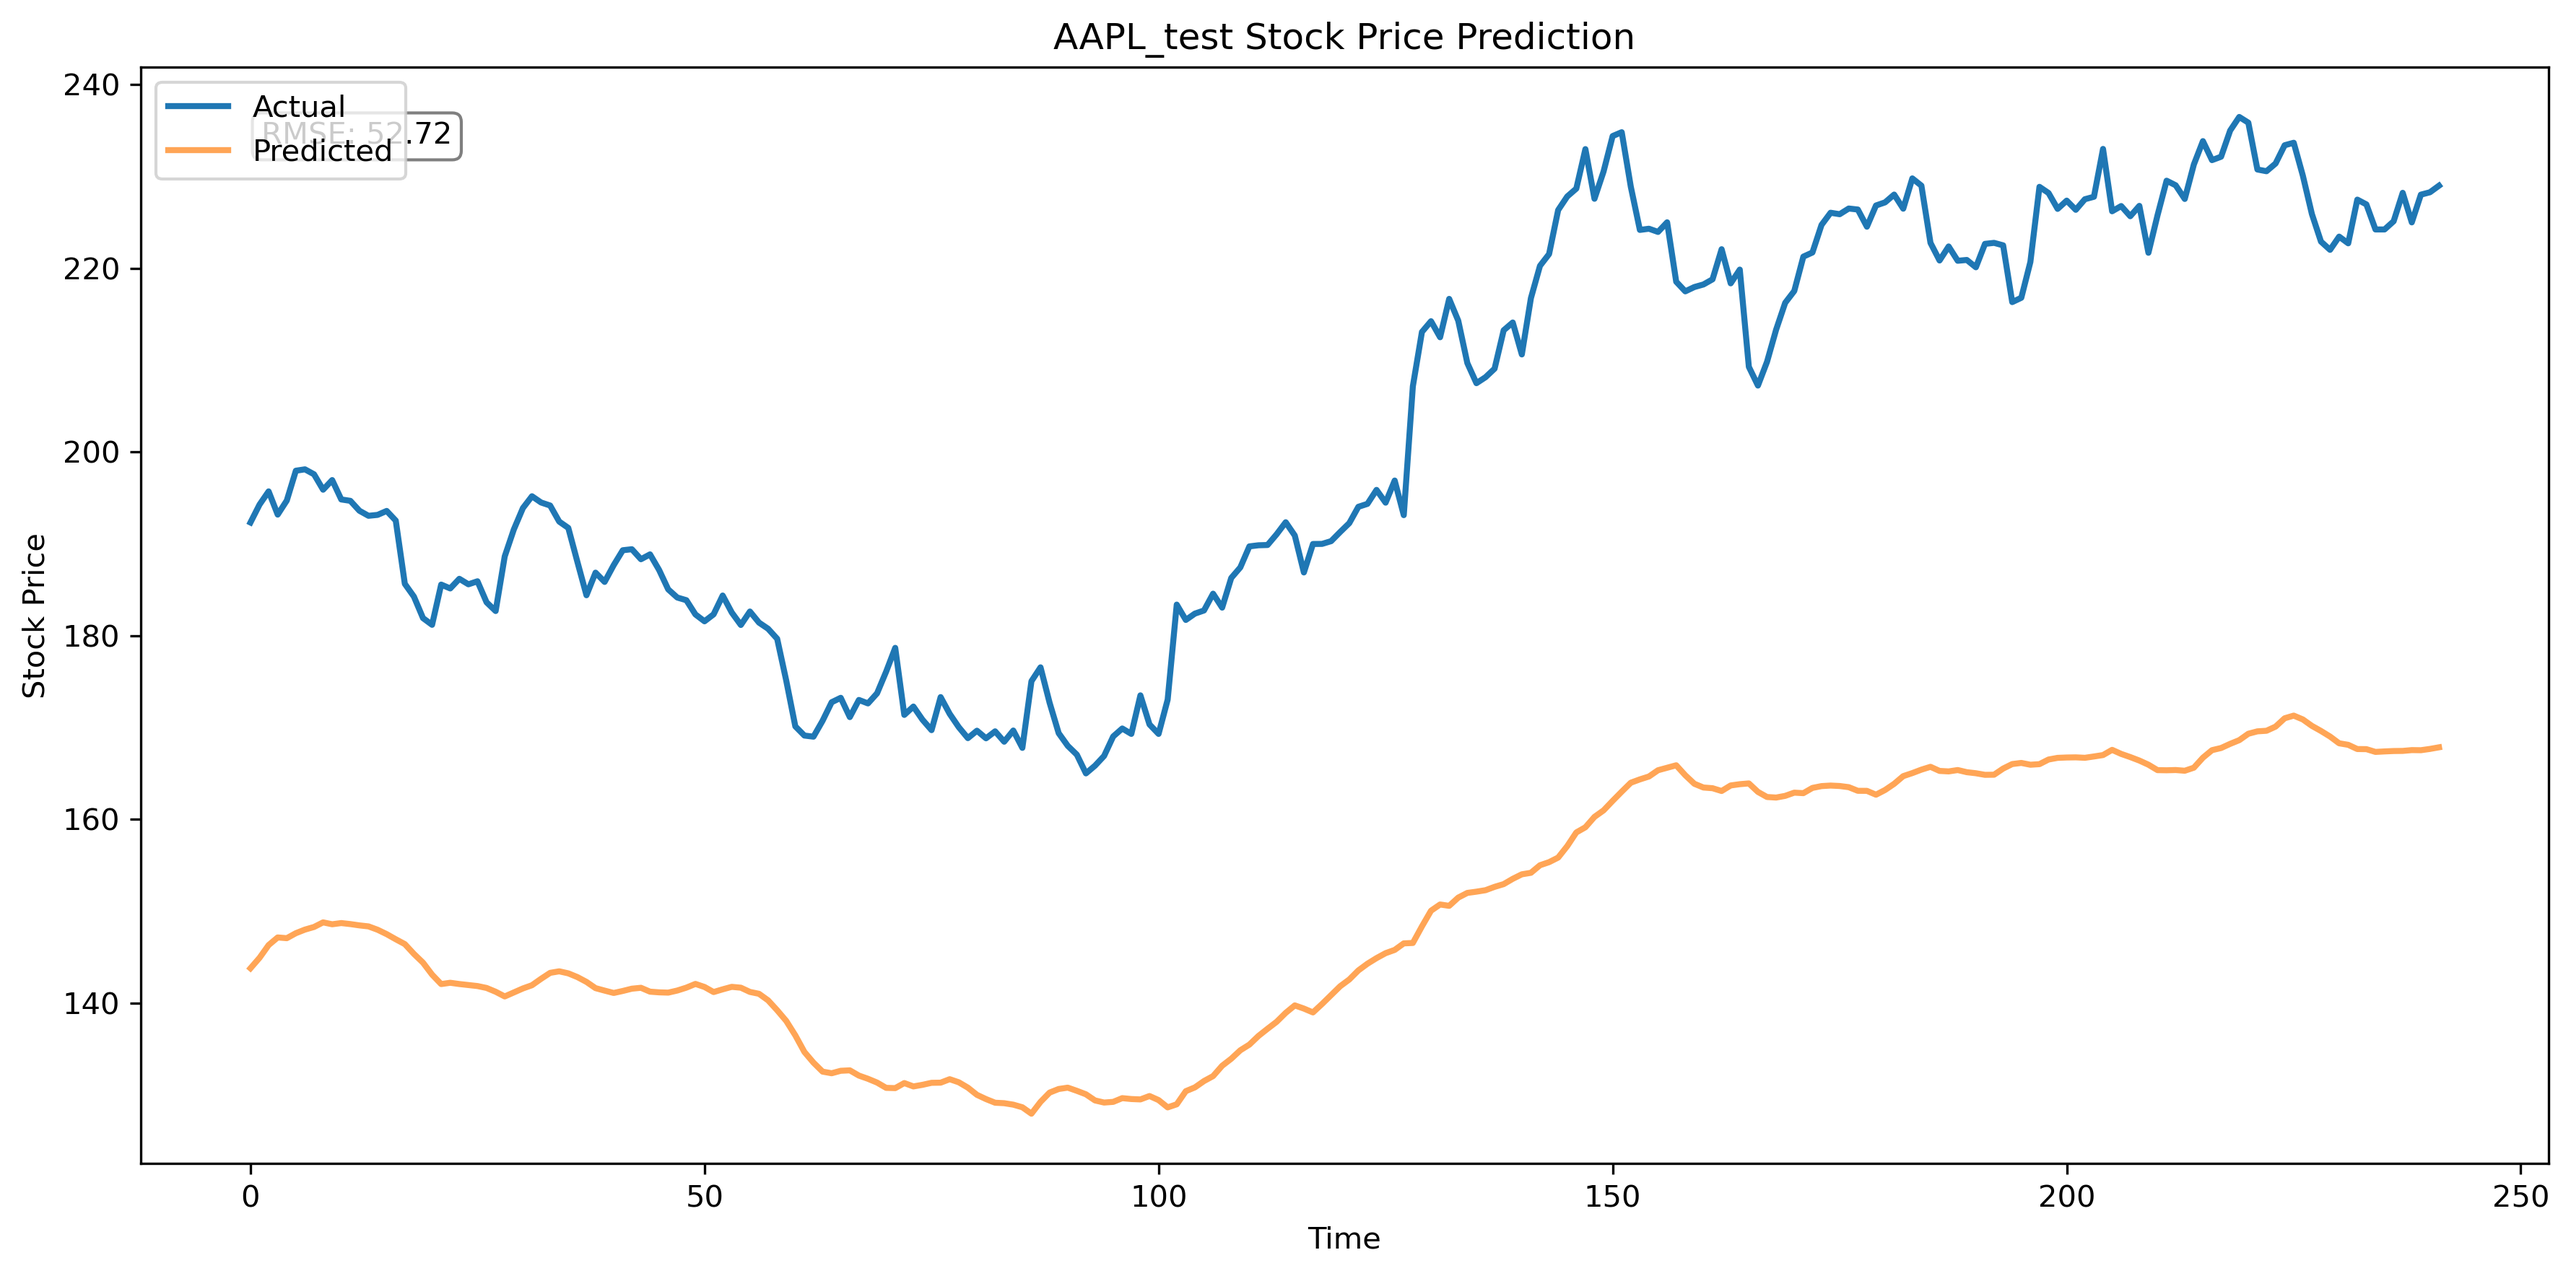
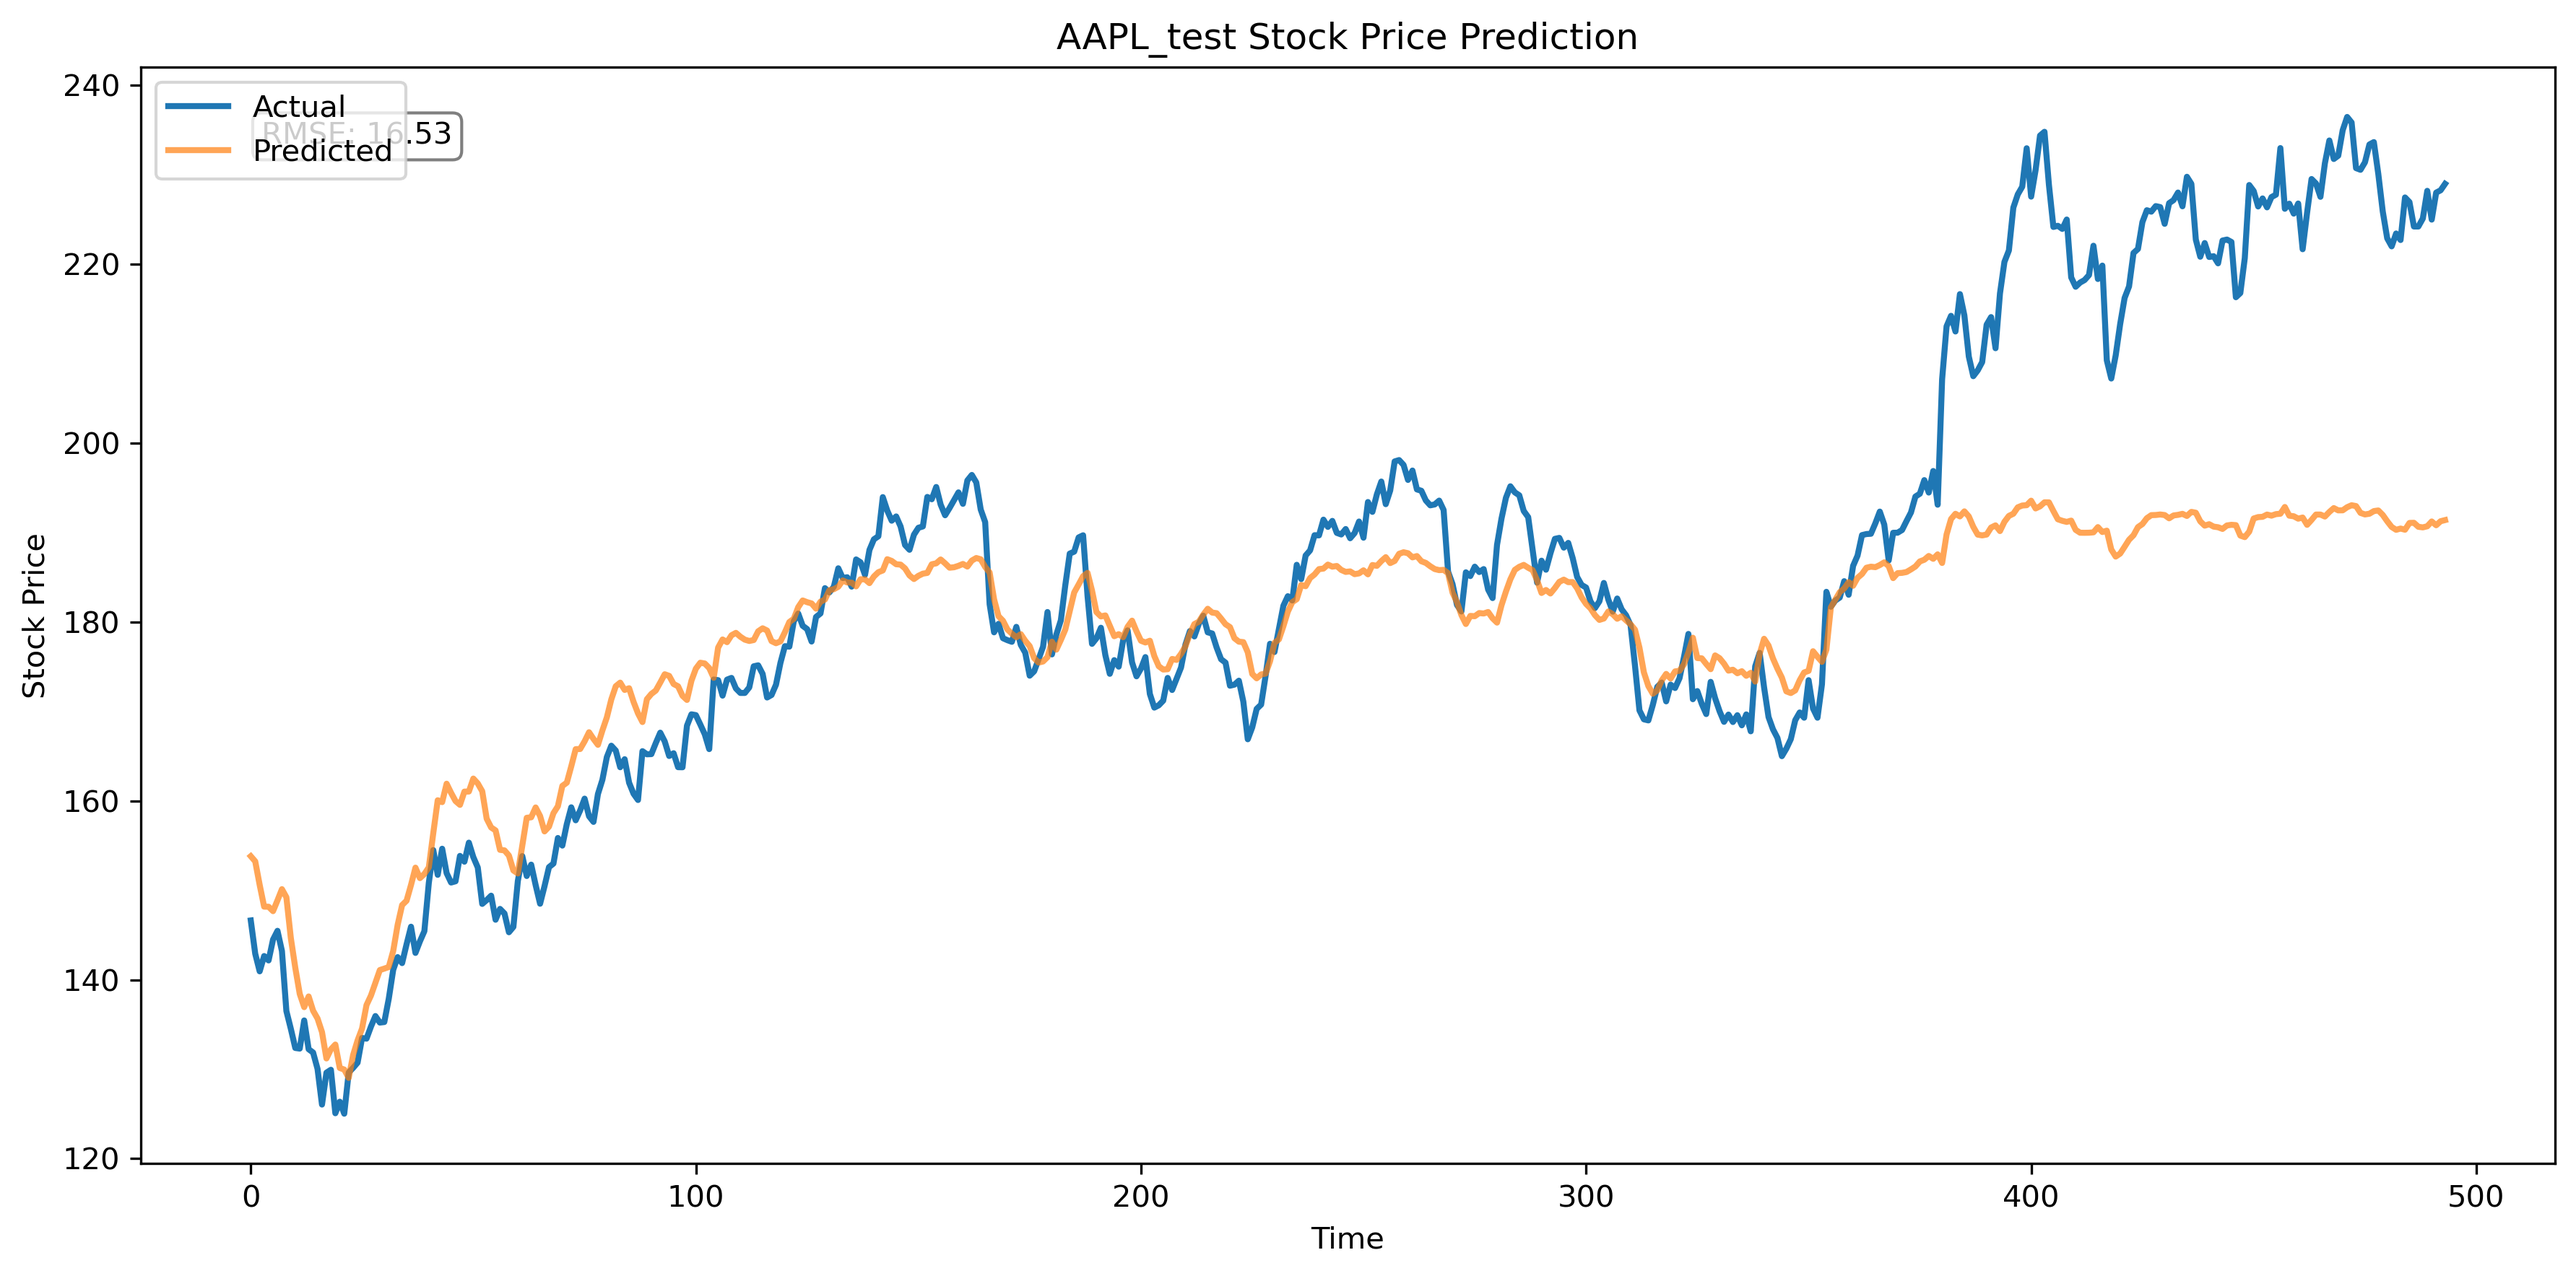
fixing hyperparameter tuning

diff --git a/train.py b/train.py
@@ -15,7 +15,6 @@ from scikeras.wrappers import KerasRegressor
 from sklearn.model_selection import train_test_split
 from dataprocessing import dataprocessing
 import tensorflow as tf
-from scipy.stats import randint, uniform
 import joblib
 import os
 from skopt import BayesSearchCV
@@ -42,18 +41,14 @@ def load_model_and_params(model_filename, params_filename):
 
 
 
-from scikeras.wrappers import KerasRegressor
-from sklearn.model_selection import train_test_split
-
-# ... (other imports remain the same)
 
 def bayesian_hyperparameter_tuning(x_train, y_train, x_val, y_val):
     # Define the search space
     search_spaces = {
-        'model__units': Integer(32, 256),
-        'model__learning_rate': Real(1e-4, 1e-1, prior='log-uniform'),
+        'model__units': Integer(32, 128),
+        'model__learning_rate': Real(1e-4, 1e-2, prior='log-uniform'),
         'model__dropout_rate': Real(0.1, 0.5),
-        'model__l2_reg': Real(1e-6, 1e-2, prior='log-uniform'),
+        'model__l2_reg': Real(1e-6, 1e-3, prior='log-uniform'),
     }
 
     # Create a custom scoring function that uses the validation set
@@ -95,7 +90,7 @@ def bayesian_hyperparameter_tuning(x_train, y_train, x_val, y_val):
 
 
 
-def create_model(units=64, learning_rate=0.001, dropout_rate=0.2, l2_reg=0.01):
+def create_complex_model(units=64, learning_rate=0.001, dropout_rate=0.2, l2_reg=0.01):
     inputs = Input(shape=(shape[0], shape[1]))
     
     # First LSTM layer with L2 regularization
@@ -126,6 +121,67 @@ def create_model(units=64, learning_rate=0.001, dropout_rate=0.2, l2_reg=0.01):
                   loss='mean_squared_error')
     return model
 
+
+
+
+
+def create_model(units=64, learning_rate=0.001, dropout_rate=0.2, l2_reg=0.01):
+    inputs = Input(shape=(shape[0], shape[1]))
+    
+    x = LSTM(units, return_sequences=True, 
+             kernel_regularizer=l2(l2_reg), 
+             recurrent_regularizer=l2(l2_reg))(inputs)
+    x = LayerNormalization()(x)
+    x = Dropout(dropout_rate)(x)
+    
+    x = LSTM(units // 2, 
+             kernel_regularizer=l2(l2_reg), 
+             recurrent_regularizer=l2(l2_reg))(x)
+    x = LayerNormalization()(x)
+    x = Dropout(dropout_rate)(x)
+    
+    outputs = Dense(1, kernel_regularizer=l2(l2_reg))(x)
+    
+    model = Model(inputs=inputs, outputs=outputs)
+    model.compile(optimizer=tf.keras.optimizers.Adam(learning_rate=learning_rate), 
+                  loss='mean_squared_error')
+    return model
+
+
+
+
+
+def create_or_load_model(MODEL_FILE, PARAMS_FILE, shape, bayesian=False):
+    if os.path.exists(MODEL_FILE) and os.path.exists(PARAMS_FILE):
+        print("Loading existing model and parameters...")
+        best_model, best_params = load_model_and_params(MODEL_FILE, PARAMS_FILE)
+    elif bayesian:
+        print("No existing model found. Running Bayesian hyperparameter tuning...")
+        x_train_tune, x_val, y_train_tune, y_val = train_test_split(
+            x_train[tech_list[0]], y_train[tech_list[0]], test_size=0.2, random_state=42
+        )
+        best_params = bayesian_hyperparameter_tuning(x_train_tune, y_train_tune, x_val, y_val)
+        best_model = create_model(units=best_params['model__units'],
+                                  learning_rate=best_params['model__learning_rate'],
+                                  dropout_rate=best_params['model__dropout_rate'],
+                                  l2_reg=best_params['model__l2_reg'])
+        save_model_and_params(best_model, best_params, MODEL_FILE, PARAMS_FILE)
+    else:
+        default_params = {
+            'units': 64,
+            'learning_rate': 0.001,
+            'dropout_rate': 0.2,
+            'l2_reg': 0.01
+        }
+        print("No existing model found. Using default parameters...")
+        best_params = default_params
+        best_model = create_model(units=best_params['units'],
+                                  learning_rate=best_params['learning_rate'],
+                                  dropout_rate=best_params['dropout_rate'],
+                                  l2_reg=best_params['l2_reg'])
+        save_model_and_params(best_model, best_params, MODEL_FILE, PARAMS_FILE)
+    
+    return best_model, best_params
 
 
 
@@ -166,40 +222,25 @@ def plot_learning_curves(history, stock):
     
     
 
+
+
+
+
+
+
+
 # data processing
 tech_list = ['AAPL']  # 'GOOG', 'MSFT', 'AMZN'
 x_train, y_train, x_test, y_test, shape, scaler = dataprocessing(tech_list)
-
-
-
-
-
 
 # model building
 model = KerasRegressor(build_fn=create_model, verbose=0)
 
 MODEL_FILE = 'best_stock_model.h5'
 PARAMS_FILE = 'best_model_params.joblib'
+bayesian = False
 
-if os.path.exists(MODEL_FILE) and os.path.exists(PARAMS_FILE):
-    print("Loading existing model and parameters...")
-    best_model, best_params = load_model_and_params(MODEL_FILE, PARAMS_FILE)
-else:
-    print("No existing model found. Running Bayesian hyperparameter tuning...")
-
-    x_train_tune, x_val, y_train_tune, y_val = train_test_split(
-    x_train[tech_list[0]], y_train[tech_list[0]], test_size=0.2, random_state=42
-    )
-
-    best_params = bayesian_hyperparameter_tuning(x_train_tune, y_train_tune, x_val, y_val)
-
-    # Update the create_model call
-    best_model = create_model(units=best_params['model__units'],
-                            learning_rate=best_params['model__learning_rate'],
-                            dropout_rate=best_params['model__dropout_rate'],
-                            l2_reg=best_params['model__l2_reg'])
-    
-    save_model_and_params(best_model, best_params, MODEL_FILE, PARAMS_FILE)
+best_model, best_params = create_or_load_model(MODEL_FILE, PARAMS_FILE, shape, bayesian)
 
 early_stop = EarlyStopping(monitor='val_loss', patience=30, restore_best_weights=True)
 
@@ -207,14 +248,9 @@ for stock in tech_list:
     history = best_model.fit(x_train[stock], y_train[stock], 
                              batch_size=64, 
                              epochs=100, 
-                             validation_data=(x_test[stock], y_test[stock]),  # Use test data for validation
+                             validation_data=(x_test[stock], y_test[stock]),
                              callbacks=[early_stop], 
                              verbose=1)
-    
-    
-    
-    
-    
     
     # plotting
     plot_learning_curves(history, stock)
@@ -240,11 +276,6 @@ for stock in tech_list:
 
     print(f'Train RMSE for {stock}: {train_rmse:.2f}')
     print(f'Test RMSE for {stock}: {test_rmse:.2f}')
-
-
-
-
-
 
 # Save model
 best_model.save(MODEL_FILE)

diff --git a/dataprocessing.py b/dataprocessing.py
@@ -1,7 +1,7 @@
 from datetime import datetime, timedelta
 import numpy as np
 import pandas as pd
-from sklearn.preprocessing import MinMaxScaler
+from sklearn.preprocessing import StandardScaler
 from sklearn.model_selection import train_test_split
 import yfinance as yf
 
@@ -23,7 +23,7 @@ def add_technical_indicators(df):
 
 def dataprocessing(tech_list):
     end = datetime.now()
-    start = end - timedelta(days=365*5)  # Get 2 years of data
+    start = end - timedelta(days=365*10)
 
     stock_data = {}
     for stock in tech_list:
@@ -32,7 +32,7 @@ def dataprocessing(tech_list):
         df = add_technical_indicators(df)
         stock_data[stock] = df.dropna()  # Remove any rows with NaN values
     
-    scaler = MinMaxScaler(feature_range=(0, 1))
+    scaler = StandardScaler()
     data = {}
     x_train = {}
     y_train = {}
@@ -59,8 +59,6 @@ def dataprocessing(tech_list):
         
         x_temp = np.array(x_temp)
         y_temp = np.array(y_temp)
-        x_train[stock] = x_temp
-        y_train[stock] = y_temp
         
         x_train[stock], x_test[stock], y_train[stock], y_test[stock] = train_test_split(
             x_temp, y_temp, test_size=0.2, random_state=42, shuffle=False
